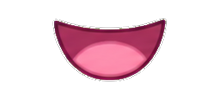
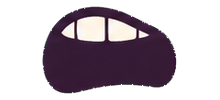
add carousel mouth reactions

diff --git a/docs/index.html b/docs/index.html
@@ -4287,7 +4287,8 @@
        the carousel is in its normal throw mode. */
     .hero-model-pull-canvas,
     .hero-model-pull-body,
-    .hero-model-pull-eye {
+    .hero-model-pull-eye,
+    .hero-model-pull-mouth {
       position: absolute;
       display: none;
       pointer-events: none;
@@ -4309,6 +4310,10 @@
       z-index: 3;
     }
 
+    .hero-model-pull-mouth {
+      z-index: 3;
+    }
+
     .hero-model-slide.is-pull-ready .hero-model-pull-canvas,
     .hero-model-slide.is-pull-ready .hero-model-pull-eye {
       display: block;
@@ -4319,6 +4324,10 @@
     }
 
     .hero-model-slide.is-pull-reaction .hero-model-pull-eye {
+      display: block;
+    }
+
+    .hero-model-slide.is-pull-reaction .hero-model-pull-mouth {
       display: block;
     }
 
@@ -11398,6 +11407,7 @@
         eyeIndex: -1,
         eyeSector: 0,
         eyeStrong: false,
+        mouthIndex: -1,
         frame: 0,
         returnTimer: 0
       };
@@ -11409,38 +11419,83 @@
         [4, 8],
         [0, 1],
       ];
+      const PULL_REACTION_EYE_SCALE = 1.5;
+      const PULL_REACTION_MOUTH_SCALE = 1;
+      const PULL_SHARED_MOUTHS = Array.from({ length: 10 }, (_, index) => `mobby-touch/assets/mobiyan-mouth-${index + 1}.png`);
+      const PULL_MOBIYAN_MOUTH_MIX = PULL_SHARED_MOUTHS.map((mouth, index) => {
+        const originalMouthIndices = new Set([0, 1, 2, 5, 6, 7]);
+        return originalMouthIndices.has(index)
+          ? `mobby-touch/assets/mobiyan-mouth-original-${index + 1}.png`
+          : mouth;
+      });
+      const PULL_YANKI_MOUTH_MIX = PULL_MOBIYAN_MOUTH_MIX.map((mouth, index) => (
+        index === 6 ? 'mobby-touch/assets/mobiyan-mouth-yanki-7.png' : mouth
+      ));
       const PULL_CHARACTER_CONFIG = {
         "fact-yellow": {
           body: "mobby-touch/mobirin-noneye.png",
           eyes: Array.from({ length: 9 }, (_, index) => `mobby-touch/assets/mobirin-eye-${index + 1}.png`),
+          mouths: PULL_SHARED_MOUTHS,
           sourceSize: 1254,
           frame: { x: 295, y: 280, width: 300, height: 270 },
+          mouthFrame: { x: 490, y: 610, width: 255, height: 120 },
           defaultEye: 0,
+          defaultMouth: 0,
           eyePairs: PULL_EYE_DIRECTION_PAIRS,
+          mouthPairs: [
+            [0, 1],
+            [2, 3],
+            [4, 5],
+            [6, 7],
+            [8, 9],
+          ],
         },
         gal: {
           body: "mobby-touch/mobichi-noneye.png",
           eyes: Array.from({ length: 9 }, (_, index) => `mobby-touch/assets/mobichi-eye-${index + 1}.png`),
+          mouths: PULL_SHARED_MOUTHS,
           sourceSize: 1254,
           frame: { x: 295, y: 270, width: 300, height: 270 },
+          mouthFrame: { x: 560, y: 550, width: 110, height: 72 },
           defaultEye: 0,
+          defaultMouth: 0,
           eyePairs: PULL_EYE_DIRECTION_PAIRS,
+          mouthPairs: [
+            [0, 1],
+            [2, 3],
+            [4, 5],
+            [6, 7],
+            [8, 9],
+          ],
         },
         "yami-purple": {
           body: "mobby-touch/yami-noneye.png",
           eyes: Array.from({ length: 9 }, (_, index) => `mobby-touch/assets/yami-eye-${index + 1}.png`),
+          mouths: PULL_MOBIYAN_MOUTH_MIX,
           sourceSize: 1254,
           frame: { x: 250, y: 380, width: 270, height: 180 },
+          mouthFrame: { x: 490, y: 610, width: 255, height: 120 },
           defaultEye: 0,
+          defaultMouth: 0,
           eyePairs: PULL_EYE_DIRECTION_PAIRS,
+          mouthPairs: [
+            [0, 1],
+            [2, 3],
+            [4, 5],
+            [6, 7],
+            [8, 9],
+          ],
         },
         yanki: {
           body: "mobby-touch/mobiyan-noneye.png",
           eyes: Array.from({ length: 9 }, (_, index) => `mobby-touch/assets/mobiyan-eye-${index + 1}.png`),
+          mouths: PULL_YANKI_MOUTH_MIX,
           sourceSize: 1254,
           frame: { x: 393, y: 499, width: 171, height: 100 },
+          mouthFrame: { x: 490, y: 610, width: 255, height: 120 },
           defaultFrame: { x: 366, y: 465, width: 227, height: 166 },
           defaultEye: "mobby-touch/assets/mobiyan-eye-default.png",
+          defaultMouth: 0,
           reactionAlphaBox: [64, 22, 271, 124],
           eyePairs: [
             [1, 5],
@@ -11448,6 +11503,13 @@
             [2, 7],
             [0, 4],
             [5, 3],
+          ],
+          mouthPairs: [
+            [0, 1],
+            [2, 3],
+            [4, 5],
+            [6, 7],
+            [8, 9],
           ],
         },
       };
@@ -11698,25 +11760,39 @@
           : parts.config.frame;
         const body = parts.body;
         const eye = parts.eye;
+        const mouth = parts.mouth;
         body.style.width = `${geometry.spriteSize}px`;
         body.style.height = `${geometry.spriteSize}px`;
         body.style.left = `${geometry.imageLeft}px`;
         body.style.top = `${geometry.imageTop}px`;
         if (!parts.isDefault && parts.config.reactionAlphaBox) {
           const [boxX, boxY, boxWidth, boxHeight] = parts.config.reactionAlphaBox;
-          const targetWidth = frame.width * geometry.scale;
-          const targetHeight = frame.height * geometry.scale;
+          const baseTargetWidth = frame.width * geometry.scale;
+          const baseTargetHeight = frame.height * geometry.scale;
+          const targetCenterX = geometry.imageLeft + frame.x * geometry.scale + baseTargetWidth / 2;
+          const targetCenterY = geometry.imageTop + frame.y * geometry.scale + baseTargetHeight / 2;
+          const targetWidth = baseTargetWidth * PULL_REACTION_EYE_SCALE;
+          const targetHeight = baseTargetHeight * PULL_REACTION_EYE_SCALE;
           const outerWidth = targetWidth * 400 / boxWidth;
           const outerHeight = targetHeight * 170 / boxHeight;
           eye.style.width = `${outerWidth}px`;
           eye.style.height = `${outerHeight}px`;
-          eye.style.left = `${geometry.imageLeft + frame.x * geometry.scale - outerWidth * boxX / 400}px`;
-          eye.style.top = `${geometry.imageTop + frame.y * geometry.scale - outerHeight * boxY / 170}px`;
+          eye.style.left = `${targetCenterX - outerWidth * (boxX + boxWidth / 2) / 400}px`;
+          const reactionEyeLift = parts.eyeIndex > 0 ? 4 : 0;
+          eye.style.top = `${targetCenterY - outerHeight * (boxY + boxHeight / 2) / 170 - reactionEyeLift}px`;
         } else {
           eye.style.width = `${frame.width * geometry.scale}px`;
           eye.style.height = `${frame.height * geometry.scale}px`;
           eye.style.left = `${geometry.imageLeft + frame.x * geometry.scale}px`;
           eye.style.top = `${geometry.imageTop + frame.y * geometry.scale}px`;
+        }
+        if (mouth) {
+          const mouthFrame = parts.config.mouthFrame || { x: 0, y: 0, width: 220, height: 100 };
+          const mouthScale = geometry.scale * PULL_REACTION_MOUTH_SCALE;
+          mouth.style.width = `${mouthFrame.width * mouthScale}px`;
+          mouth.style.height = `${mouthFrame.height * mouthScale}px`;
+          mouth.style.left = `${geometry.imageLeft + mouthFrame.x * geometry.scale}px`;
+          mouth.style.top = `${geometry.imageTop + mouthFrame.y * geometry.scale}px`;
         }
       }
 
@@ -11724,7 +11800,11 @@
         const parts = getPullParts(slide);
         if (!parts) return;
         parts.enabled = enabled;
-        if (enabled) parts.isDefault = true;
+        if (enabled) {
+          parts.isDefault = true;
+          parts.eyeIndex = -1;
+          parts.mouthIndex = -1;
+        }
         slide.classList.toggle('is-pull-ready', enabled);
         slide.classList.remove('is-pull-reaction');
         if (!enabled && parts.renderer) {
@@ -11736,6 +11816,9 @@
         if (enabled) {
           layoutPullParts(slide);
           parts.eye.src = parts.config.defaultEye || parts.config.eyes[parts.config.defaultEye || 0];
+          if (parts.mouth && parts.config.mouths) {
+            parts.mouth.src = parts.config.mouths[parts.config.defaultMouth || 0];
+          }
         }
       }
 
@@ -11789,6 +11872,13 @@
         return pairs[pullDrag.eyeSector][pullDrag.eyeStrong ? 1 : 0];
       }
 
+      function selectPullMouth() {
+        const pairs = pullDrag.config?.mouthPairs;
+        if (!pairs?.length) return -1;
+        const pair = pairs[pullDrag.eyeSector] || pairs[0];
+        return pair[pullDrag.eyeStrong ? 1 : 0] ?? pair[0] ?? -1;
+      }
+
       function setPullTransform(slide, x, y, scaleX = 1, scaleY = 1, rotation = 0) {
         if (!slide) return;
         slide.style.setProperty('--hero-pull-x', `${x}px`);
@@ -11827,6 +11917,12 @@
         stopPullAnimation();
         const slide = pullDrag.slide;
         if (slide) resetPullTransform(slide);
+        const parts = getPullParts(slide);
+        if (parts) {
+          parts.isDefault = true;
+          parts.eyeIndex = -1;
+          parts.mouthIndex = -1;
+        }
         const renderer = pullDrag.renderer || getPullParts(slide)?.renderer;
         if (renderer) {
           resetPullMesh(renderer);
@@ -11841,6 +11937,7 @@
         pullDrag.eyeIndex = -1;
         pullDrag.eyeSector = 0;
         pullDrag.eyeStrong = false;
+        pullDrag.mouthIndex = -1;
       }
 
       function beginPullDrag(event, slide) {
@@ -11861,6 +11958,7 @@
         pullDrag.eyeIndex = -1;
         pullDrag.eyeSector = 0;
         pullDrag.eyeStrong = false;
+        pullDrag.mouthIndex = -1;
         pullDrag.lastAt = performance.now();
         if (renderer) {
           resizePullRenderer(renderer);
@@ -11870,8 +11968,13 @@
         }
         if (parts) {
           parts.isDefault = true;
+          parts.eyeIndex = -1;
+          parts.mouthIndex = -1;
           slide.classList.add('is-pull-ready');
           parts.eye.src = config.defaultEye || config.eyes[config.defaultEye || 0];
+          if (parts.mouth && config.mouths) {
+            parts.mouth.src = config.mouths[config.defaultMouth || 0];
+          }
           layoutPullParts(slide);
         }
         setPullTransform(slide, 0, 0, 1, 1, 0);
@@ -11895,10 +11998,17 @@
         }
         if (parts && pullDrag.moved) {
           const nextEyeIndex = selectPullEye(dx, dy, Math.max(pullDrag.slide.clientWidth, 1));
-          if (nextEyeIndex !== pullDrag.eyeIndex) {
+          const nextMouthIndex = selectPullMouth();
+          if (nextEyeIndex !== pullDrag.eyeIndex || nextMouthIndex !== pullDrag.mouthIndex) {
             pullDrag.eyeIndex = nextEyeIndex;
+            pullDrag.mouthIndex = nextMouthIndex;
+            parts.eyeIndex = nextEyeIndex;
+            parts.mouthIndex = nextMouthIndex;
             parts.isDefault = false;
             parts.eye.src = pullDrag.config.eyes[nextEyeIndex];
+            if (parts.mouth && pullDrag.config.mouths && nextMouthIndex >= 0) {
+              parts.mouth.src = pullDrag.config.mouths[nextMouthIndex];
+            }
             pullDrag.slide.classList.add('is-pull-reaction');
             layoutPullParts(pullDrag.slide);
           }
@@ -11946,7 +12056,12 @@
         pullDrag.returnTimer = setTimeout(() => {
           if (parts) {
             parts.isDefault = true;
+            parts.eyeIndex = -1;
+            parts.mouthIndex = -1;
             parts.eye.src = parts.config.defaultEye || parts.config.eyes[parts.config.defaultEye || 0];
+            if (parts.mouth && parts.config.mouths) {
+              parts.mouth.src = parts.config.mouths[parts.config.defaultMouth || 0];
+            }
             slide.classList.remove('is-pull-reaction');
             layoutPullParts(slide);
           }
@@ -12287,11 +12402,30 @@
           eye.className = 'hero-model-pull-eye';
           eye.alt = '';
           eye.src = pullConfig.defaultEye || pullConfig.eyes[pullConfig.defaultEye || 0];
-          slide.append(body, eye);
+          const mouth = pullConfig.mouths ? document.createElement('img') : null;
+          if (mouth) {
+            mouth.className = 'hero-model-pull-mouth';
+            mouth.alt = '';
+            mouth.src = pullConfig.mouths[pullConfig.defaultMouth || 0];
+            slide.append(body, eye, mouth);
+          } else {
+            slide.append(body, eye);
+          }
           const renderer = createPullRenderer(slide, pullConfig, body);
-          slide._pullParts = { config: pullConfig, body, eye, renderer, isDefault: true, enabled: false };
+          slide._pullParts = {
+            config: pullConfig,
+            body,
+            eye,
+            mouth,
+            renderer,
+            isDefault: true,
+            enabled: false,
+            eyeIndex: -1,
+            mouthIndex: -1,
+          };
           body.addEventListener('load', () => layoutPullParts(slide), { once: false });
           eye.addEventListener('load', () => layoutPullParts(slide), { once: false });
+          mouth?.addEventListener('load', () => layoutPullParts(slide), { once: false });
           window.addEventListener('resize', () => {
             layoutPullParts(slide);
             resizePullRenderer(renderer);

diff --git a/docs/mobby-touch/index.html b/docs/mobby-touch/index.html
@@ -240,6 +240,7 @@
         const eyeFreeSourceSize = 1254;
         const defaultEyeCrop = { x: 366, y: 465, width: 227, height: 166 };
         const reactionEyeBox = { x: 393, y: 499, width: 171, height: 100 };
+        const reactionEyeScale = 1.5;
         const eyeDirectionPairs = [
           [1, 5], // right: looking / surprised
           [6, 8], // down-right: blushing / teary
@@ -334,9 +335,17 @@
             const imageTop = height * 0.89 - spriteSize * 0.99;
             const sourceScale = spriteSize / eyeFreeSourceSize;
             const targetX = imageLeft + reactionEyeBox.x * sourceScale;
-            const targetY = imageTop + reactionEyeBox.y * sourceScale;
-            const targetWidth = reactionEyeBox.width * sourceScale;
-            const targetHeight = reactionEyeBox.height * sourceScale;
+            // Eye 1 is the anchor reference. The later reaction assets have
+            // a little more transparent space at the bottom, so lift only
+            // those variants slightly to keep their visible iris aligned.
+            const reactionEyeLift = eyeIndex > 0 ? 4 : 0;
+            const targetY = imageTop + reactionEyeBox.y * sourceScale - reactionEyeLift;
+            const baseTargetWidth = reactionEyeBox.width * sourceScale;
+            const baseTargetHeight = reactionEyeBox.height * sourceScale;
+            const targetCenterX = targetX + baseTargetWidth / 2;
+            const targetCenterY = targetY + baseTargetHeight / 2;
+            const targetWidth = baseTargetWidth * reactionEyeScale;
+            const targetHeight = baseTargetHeight * reactionEyeScale;
             // All variants share the approved eye-5 frame so changing the
             // expression does not resize or jump the eye layer.
             const [boxX, boxY, boxWidth, boxHeight] = eyeAlphaBoxes[4];
@@ -344,8 +353,8 @@
             const outerHeight = targetHeight * 170 / boxHeight;
             overlay.style.width = `${outerWidth}px`;
             overlay.style.height = `${outerHeight}px`;
-            overlay.style.left = `${targetX - outerWidth * boxX / 400}px`;
-            overlay.style.top = `${targetY - outerHeight * boxY / 170}px`;
+            overlay.style.left = `${targetCenterX - outerWidth * (boxX + boxWidth / 2) / 400}px`;
+            overlay.style.top = `${targetCenterY - outerHeight * (boxY + boxHeight / 2) / 170}px`;
           };
           const updateDefaultSource = () => {
             if (!defaultSource || !canvas) return;
